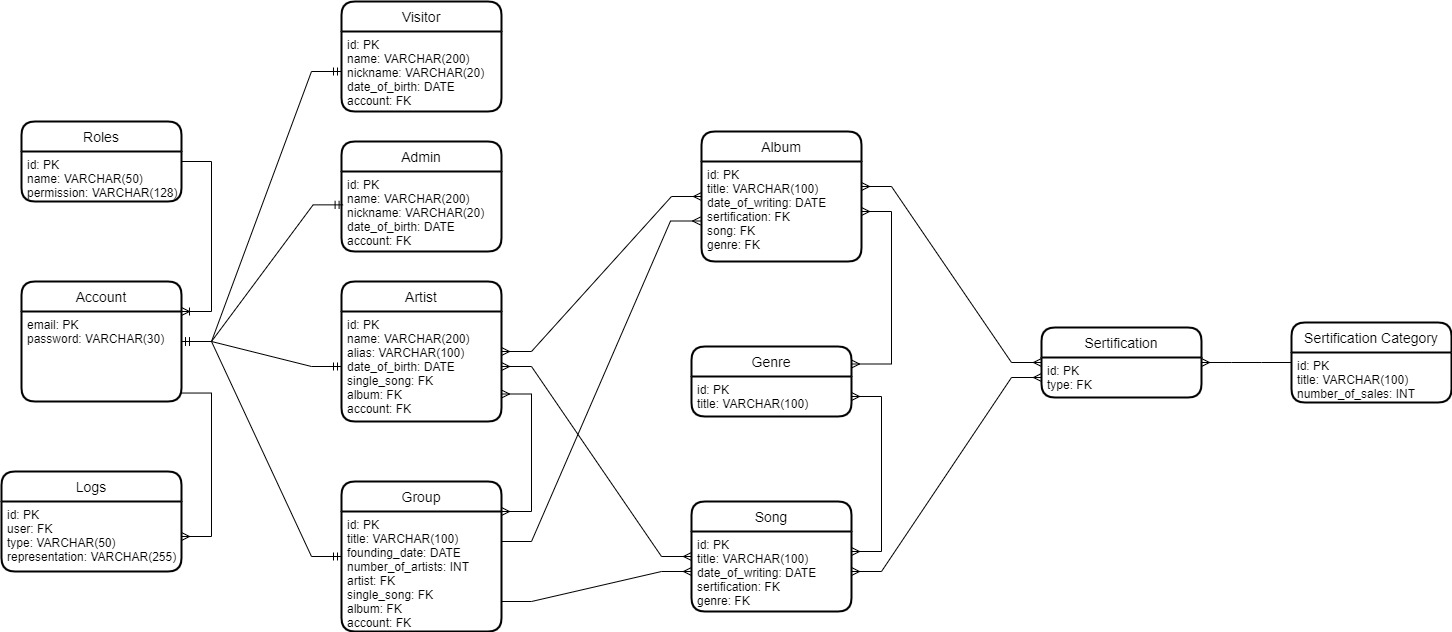
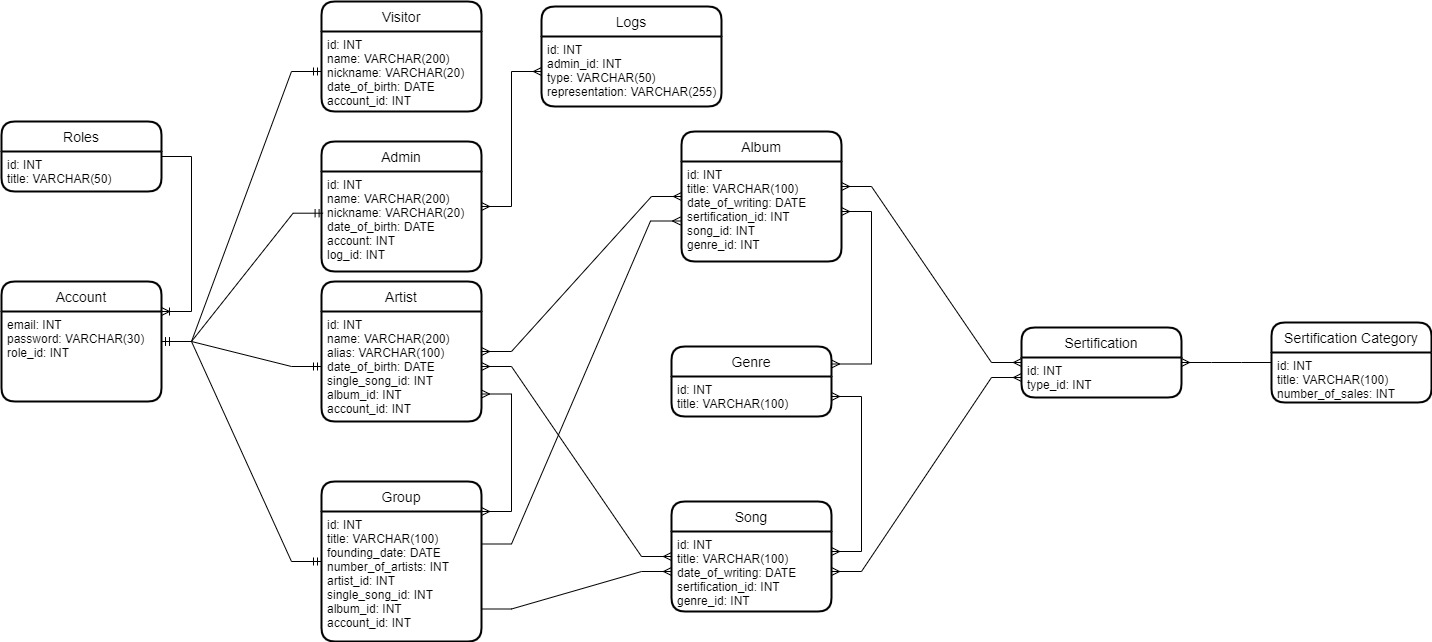
Some steps to 1NF

diff --git a/tables.md b/tables.md
@@ -4,8 +4,10 @@
 ## Аккаунт (Account)
 |Имя поля|Тип|Ограничения|Описание|
 |:-----:|:--:|:---------:|:------:|
-|email|PK|NOT NULL, UNIQUE|Первичный ключ|
+|id|INT|PK, NOT NULL, AUTO INCREMENT, UNIQUE|Первичный ключ|
+|email|VARCHAR(100)|NOT NULL, UNIQUE|Первичный ключ|
 |password|VARCHAR(30)|NOT NULL|Пароль аккаунта|
+|role_id|INT|FK, NOT NULL|Внешний ключ на роль пользователя|
 
 ## Посетитель (Visitor)
 |Имя поля|Тип|Ограничения|Описание|
@@ -14,18 +16,18 @@
 |name|VARCHAR(200)|NOT NULL|ФИО Посетителя|
 |nickname|VARCHAR(20)|NOT NULL, UNIQUE|Псевдоним|
 |date_of_birth|DATE|NOT NULL|Дата рождения|
-|account|FK|NOT NULL|Внешний ключ на аккаунт|
+|account_id|INT|FK, NOT NULL|Внешний ключ на аккаунт|
 
 ## Артист (Artist)
 |Имя поля|Тип|Ограничения|Описание|
 |:-----:|:--:|:---------:|:------:|
-|id|PK|AUTO INCREMENT, NOT NULL, UNIQUE|Первичный ключ|
+|id|INT|PK, AUTO INCREMENT, NOT NULL, UNIQUE|Первичный ключ|
 |name|VARCHAR(200)|NOT NULL|ФИО Артиста|
 |alias|VARCHAR(100)|NULL|Псевдоним артиста|
 |date_of_birth|DATE|NOT NULL|Дата рождения|
 |single_song|FK|NULL|Внешний ключ на сингл Артиста|
 |album|FK|NULL|Внешний ключ на альбом Артиста|
-|account|FK|NOT NULL|Внешний ключ на аккаунт|
+|account_id|INT|FK, NOT NULL|Внешний ключ на аккаунт|
 
 ## Группа (Group)
 |Имя поля|Тип|Ограничения|Описание|
@@ -33,71 +35,72 @@
 |id|PK|AUTO INCREMENT, NOT NULL, UNIQUE|Первичный ключ|
 |title|VARCHAR(100)|NOT NULL|Название группы|
 |founding_date|DATE|NOT NULL|Дата основания|
-|artist|FK|NOT NULL|Внешний ключ на члена группы|
+|artist|INT|FK, NOT NULL|Внешний ключ на члена группы|
 |number_of_artists|INT|NOT NULL|Количество артистов в группе|
-|album|FK|NULL|Внешний ключ на альбом Группы|
-|single_song|FK|NULL|Внешний ключ на сингл Группы|
-|account|FK|NOT NULL|Внешний ключ на аккаунт|
+|album_id|INT|FK, NULL|Внешний ключ на альбом Группы|
+|single_song_id|INT|FK, NULL|Внешний ключ на сингл Группы|
+|account_id|INT|FK, NOT NULL|Внешний ключ на аккаунт|
 
 ## Администратор (Admin)
 |Имя поля|Тип|Ограничения|Описание|
 |:-----:|:--:|:---------:|:------:|
 |id|PK|AUTO INCREMENT, NOT NULL, UNIQUE|Первичный ключ|
-name|VARCHAR(200)|NOT NULL|Имя|
-nickname|VARCHAR(20)|NOT NULL|Ник админа|
-date_of_birth|DATE|NOT NULL|Дата рождения
-|account|FK|NOT NULL|Внешний ключ на аккаунт|
+|name|VARCHAR(200)|NOT NULL|Имя|
+|nickname|VARCHAR(20)|NOT NULL|Ник админа|
+|date_of_birth|DATE|NOT NULL|Дата рождения
+|account_id|INT|FK, NOT NULL|Внешний ключ на аккаунт|
+|log_id|INT|FK, NOT NULL|Внешний ключ на логи|
 
 ## Альбом (Album)
 |Имя поля|Тип|Ограничения|Описание|
 |:------:|:-:|:---------:|:------:|
-|id|PK|AUTO INCREMENT, NOT NULL, UNIQUE|Первичный ключ|
+|id|INT|PK, AUTO INCREMENT, NOT NULL, UNIQUE|Первичный ключ|
 |title|VARCHAR(100)|NOT NULL|Название альбома|
 |date_of_writing|DATE|NOT NULL|Дата записи альбома|
-|sertification|FK|NULL|внешний ключ на Сертификацию|
-|song|FK|NOT NULL|Внешний ключ на Песню из Альбома|
-|genre|FK|NOT NULL|Внешний ключ на Жанр альбома|
+|sertification_id|FK|NULL|внешний ключ на Сертификацию|
+|song_id|INT|FK, NOT NULL|Внешний ключ на Песню из Альбома|
+|genre_id|INT|FK, NOT NULL|Внешний ключ на Жанр альбома|
 
 ## Песня (Single Song)
 |Имя поля|Тип|Ограничения|Описание|
 |:------:|:-:|:---------:|:------:|
-|id|PK|AUTO INCREMENT, NOT NULL, UNIQUE|Первичный ключ|
+|id|INT|PK, AUTO INCREMENT, NOT NULL, UNIQUE|Первичный ключ|
 |title|VARCHAR(100)|NOT NULL|Название песни|
 |date_of_writing|DATE|NOT NULL|Дата записи песни|
-|sertification|FK|NULL|Внешний ключ на сертификацию песни|
-|genre|FK|NOT NULL|Внешний ключ на Жанр песни|
+|sertification_id|INT|FK, NULL|Внешний ключ на сертификацию песни|
+|genre_id|INT|FK, NOT NULL|Внешний ключ на Жанр песни|
 
 ## Жанр (Genre)
 |Имя поля|Тип|Ограничения|Описание|
 |:------:|:-:|:---------:|:------:|
-|id|PK|AUTO INCREMENT, NOT NULL, UNIQUE|Первичный ключ|
+|id|INT|PK, AUTO INCREMENT, NOT NULL, UNIQUE|Первичный ключ|
 |title|VARCHAR(100)|NOT NULL|Название жанра|
 
 
 ## Сертификация (Sertification)
 |Имя поля|Тип|Ограничения|Описание|
 |:------:|:-:|:---------:|:------:|
-|id|PK|AUTO INCREMENT, NOT NULL, UNIQUE|Первичный ключ|
-|type|FK|NOT NULL|Категория сертификации|
+|id|INT|PK, AUTO INCREMENT, NOT NULL, UNIQUE|Первичный ключ|
+|type_id|INT|FK, NOT NULL|Категория сертификации|
 
 ## Категория сертификации (Sertification Category)
 |Имя поля|Тип|Ограничения|Описание|
 |:------:|:-:|:---------:|:------:|
-|id|PK|AUTO INCREMENT, NOT NULL, UNIQUE|Первичный ключ|
+|id|INT|PK, AUTO INCREMENT, NOT NULL, UNIQUE|Первичный ключ|
 |title|VARCHAR(100)|NOT NULL|Тип|
 |number_of_sales|INT|NOT NULL|Число продаж для соответствия категории|
 
 ## Роли (Roles)
 |имя поля | тип | ограничения | описание |
 |:---:|:---:|:---:|:---:|
-| id | PK | auto increment; not null; unique | первичный ключ |
-| name | VARCHAR(50) | not null | название роли |
-| permission | VARCHAR(128) | not null | право пользователя |
+| id | INT | PK, AUTO INCREMENT, NOT NULL, UNIQUE | первичный ключ |
+| title | VARCHAR(50) | NOT NULL | название роли |
+| permission | VARCHAR(128) | NOT NULL | право пользователя |
 
 ## Логи (Logs)
 |имя поля | тип | ограничения | описание |
 |:---:|:---:|:---:|:---:|
-| id | pk | auto increment; not null; unique | первичный ключ |
-| user | fk | not null | внешний ключ на пользователя |
+| id | INT | AUTO INCREMENT, NOT NULL,  UNIQUE | первичный ключ |
+| admin_id | INT | FK, NOT NULL | внешний ключ на админа |
 | type | VARCHAR(50) | not null | тип лога(CREATE/UPDATE/DELETE) |
 | representation | VARCHAR(255) | not null | строковое представление изменённого кортежа |
